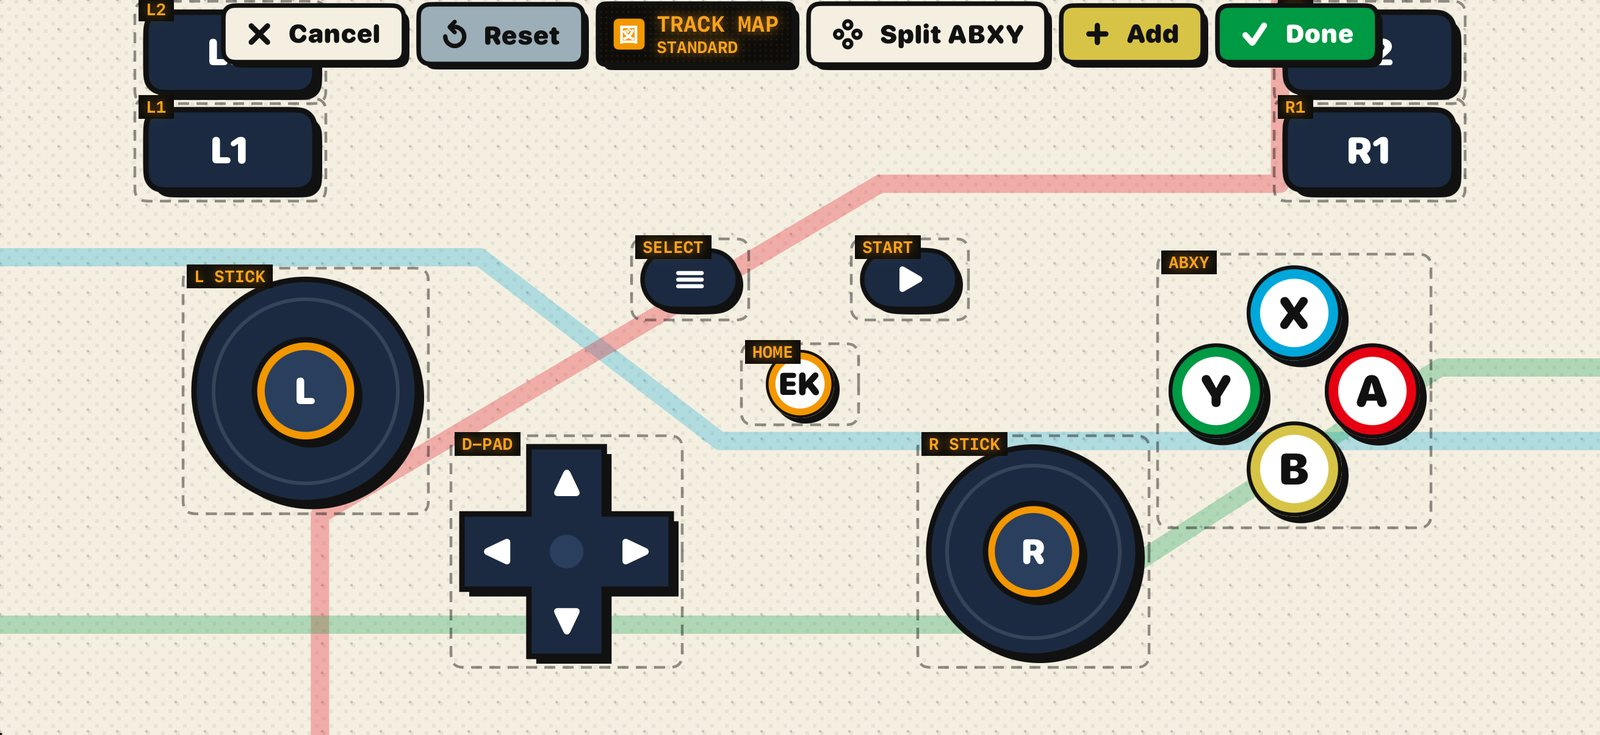
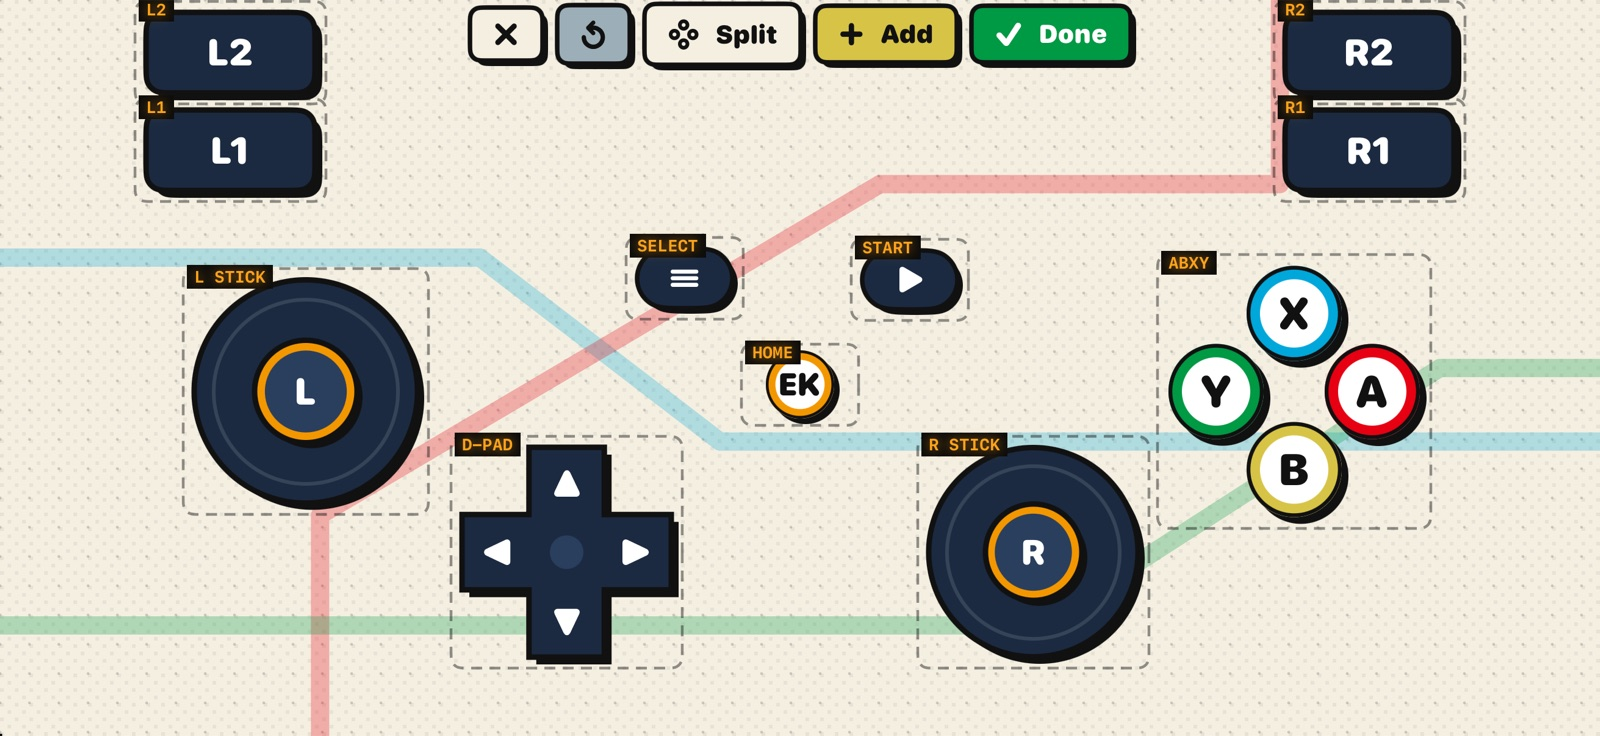
Ekipad: in review; Mouse layout, self-updating Ekipad Host 1.2 and new screenshots
- Project page: status, description and features cover the Mouse layout, track colours with 2+ players
  and Ekipad Host installing its own updates. Screenshots replaced with current captures (fixed header)
  plus the Mouse layout.
- Support page: questions on using the phone as a mouse, updating Ekipad Host and the Reset and Allow
  Again permission fix.
- Privacy policy: the update download from GitHub; effective November 23, 2026.

diff --git a/ekipad/index.html b/ekipad/index.html
@@ -27,7 +27,7 @@
 
   <div class="block">
     <p>Ekipad is the iPhone app. It works with <b>Ekipad Host</b>, a free app for your Mac that turns what you press into a game controller, keyboard keys or mouse movement.</p>
-    <p><a href="https://github.com/RedfernsOutpost/ekipad/releases/latest">Download Ekipad Host for Mac</a> (macOS 14 or later). Ekipad for iPhone is coming soon to the App Store. <a href="/projects/ekipad/">More about Ekipad</a>.</p>
+    <p><a href="https://github.com/RedfernsOutpost/ekipad/releases/latest">Download Ekipad Host for Mac</a> (macOS 14 or later). Ekipad for iPhone is in review for the App Store and coming soon. <a href="/projects/ekipad/">More about Ekipad</a>.</p>
   </div>
 
   <div class="block">
@@ -46,6 +46,8 @@
     <p>Open Ekipad Host on the Mac and Ekipad on the iPhone. Then either scan the QR code on the Mac's Gate page (Ekipad › Settings › Scan QR, or the iPhone Camera), tap the four pictograms shown on the Mac into Settings › Pictogram Code, or just click Allow when the phone appears at the Gate. After that the phone connects by itself.</p>
     <h3>What does the Mac ask permission for?</h3>
     <p>Bluetooth and Local Network, to reach your phone. Accessibility (Key Output), to press keys, move the mouse and create the virtual controller. Screen Recording, only if you turn on Screen Share. Ekipad Host explains each one before macOS asks.</p>
+    <h3>A permission is on in System Settings, but Ekipad Host says it's off</h3>
+    <p>This can happen after replacing or moving the app. In Ekipad Host click Allow again and choose Reset and Allow Again, then switch it back on in System Settings. Needs Ekipad Host 1.2 or later.</p>
     <h3>My game doesn't see the controller</h3>
     <p>On the Mac's Platform page, open your phone's Route menu and choose Xbox Controller (virtual), under Game controller. The routes under Keyboard &amp; mouse type keys instead, for games without controller support.</p>
     <h3>The left stick types W, A, S, D</h3>
@@ -54,12 +56,16 @@
     <p>Make sure Ekipad Host is open on the Mac, Bluetooth and Wi-Fi are on on both devices (they don't need to join a network) and Ekipad is allowed Bluetooth and Local Network in the iPhone's Settings › Apps › Ekipad. A USB cable to the Mac also works.</p>
     <h3>Which connection does it use?</h3>
     <p>With Link set to Auto, Ekipad sends over Bluetooth and Wi-Fi together and the Mac keeps whichever copy arrives first. With a USB cable plugged in, the controls go over the cable and Bluetooth and Wi-Fi wait on standby (STBY) to save battery, ready to take over the moment you unplug.</p>
+    <h3>Can I use the phone as a mouse?</h3>
+    <p>Yes. Tap Mouse at the top of the controller: the screen becomes a trackpad with big Left and Right click buttons and a scroll strip. Drag to move, tap to click, two-finger tap to right-click and two fingers to scroll.</p>
     <h3>How does Screen mode work?</h3>
-    <p>Turn on Screen Share in Ekipad Host, then tap Screen on the phone. Your Mac's display appears on the phone and it switches to the Mouse layout: trackpad, left and right click and a scroll strip. Tap Pad to put the controller over the picture instead.</p>
+    <p>Turn on Screen Share in Ekipad Host, then tap Screen on the phone. Your Mac's display appears on the phone and it switches to the Mouse layout. Tap Pad to put the controller over the picture instead.</p>
     <h3>It says to update one of the apps</h3>
     <p>The phone and the Mac speak different versions. Update Ekipad from the App Store, or Ekipad Host from its menu bar menu › Check for Updates. When the Mac app is the older one, the phone offers to send the update link to your Mac.</p>
+    <h3>How do I update Ekipad Host?</h3>
+    <p>From version 1.2, when a new version is out Ekipad Host shows a banner: click Install and Relaunch. It downloads the update, checks it's signed by Redfern's Outpost and notarized by Apple, and restarts with it, keeping your pairings, routes and permissions. Your phone also tells you when an update is waiting. On 1.0 or 1.1, download the latest version once from the link above and replace the old app in Applications.</p>
     <h3>Does Ekipad collect any data?</h3>
-    <p>No. There are no accounts, no ads and no analytics, and everything travels directly between your own phone and Mac. The only internet request is Ekipad Host checking GitHub for a newer version, which you can turn off. Details are in the <a href="/ekipad/privacy/">privacy policy</a>.</p>
+    <p>No. There are no accounts, no ads and no analytics, and everything travels directly between your own phone and Mac. The only internet requests are Ekipad Host checking GitHub for a newer version, which you can turn off, and downloading it from GitHub when you click Install. Details are in the <a href="/ekipad/privacy/">privacy policy</a>.</p>
   </div>
 
   <div class="block">

diff --git a/ekipad/privacy/index.html b/ekipad/privacy/index.html
@@ -23,7 +23,7 @@
   <a class="back" href="/ekipad/">← Ekipad support</a>
   <div class="page-head">
     <h1>Ekipad: Privacy Policy</h1>
-    <p>Effective November 22, 2026</p>
+    <p>Effective November 23, 2026</p>
   </div>
 
   <div class="block">
@@ -45,7 +45,7 @@
 
   <div class="block">
     <h2>Update check</h2>
-    <p>About once a day, Ekipad Host (the version downloaded from GitHub) reads the public list of releases on GitHub to see whether a newer version exists. It sends nothing about you; like any web request, GitHub sees your IP address and the app's version, and GitHub's own privacy statement applies. Turn it off in the menu bar: Check for Updates Automatically. The iPhone app makes no internet requests.</p>
+    <p>About once a day, Ekipad Host (the version downloaded from GitHub) reads the public list of releases on GitHub to see whether a newer version exists. It sends nothing about you; like any web request, GitHub sees your IP address and the app's version, and GitHub's own privacy statement applies. Turn it off in the menu bar: Check for Updates Automatically. When you click Install and Relaunch, Ekipad Host downloads the new version from the same GitHub release. The iPhone app makes no internet requests.</p>
   </div>
 
   <div class="block">
